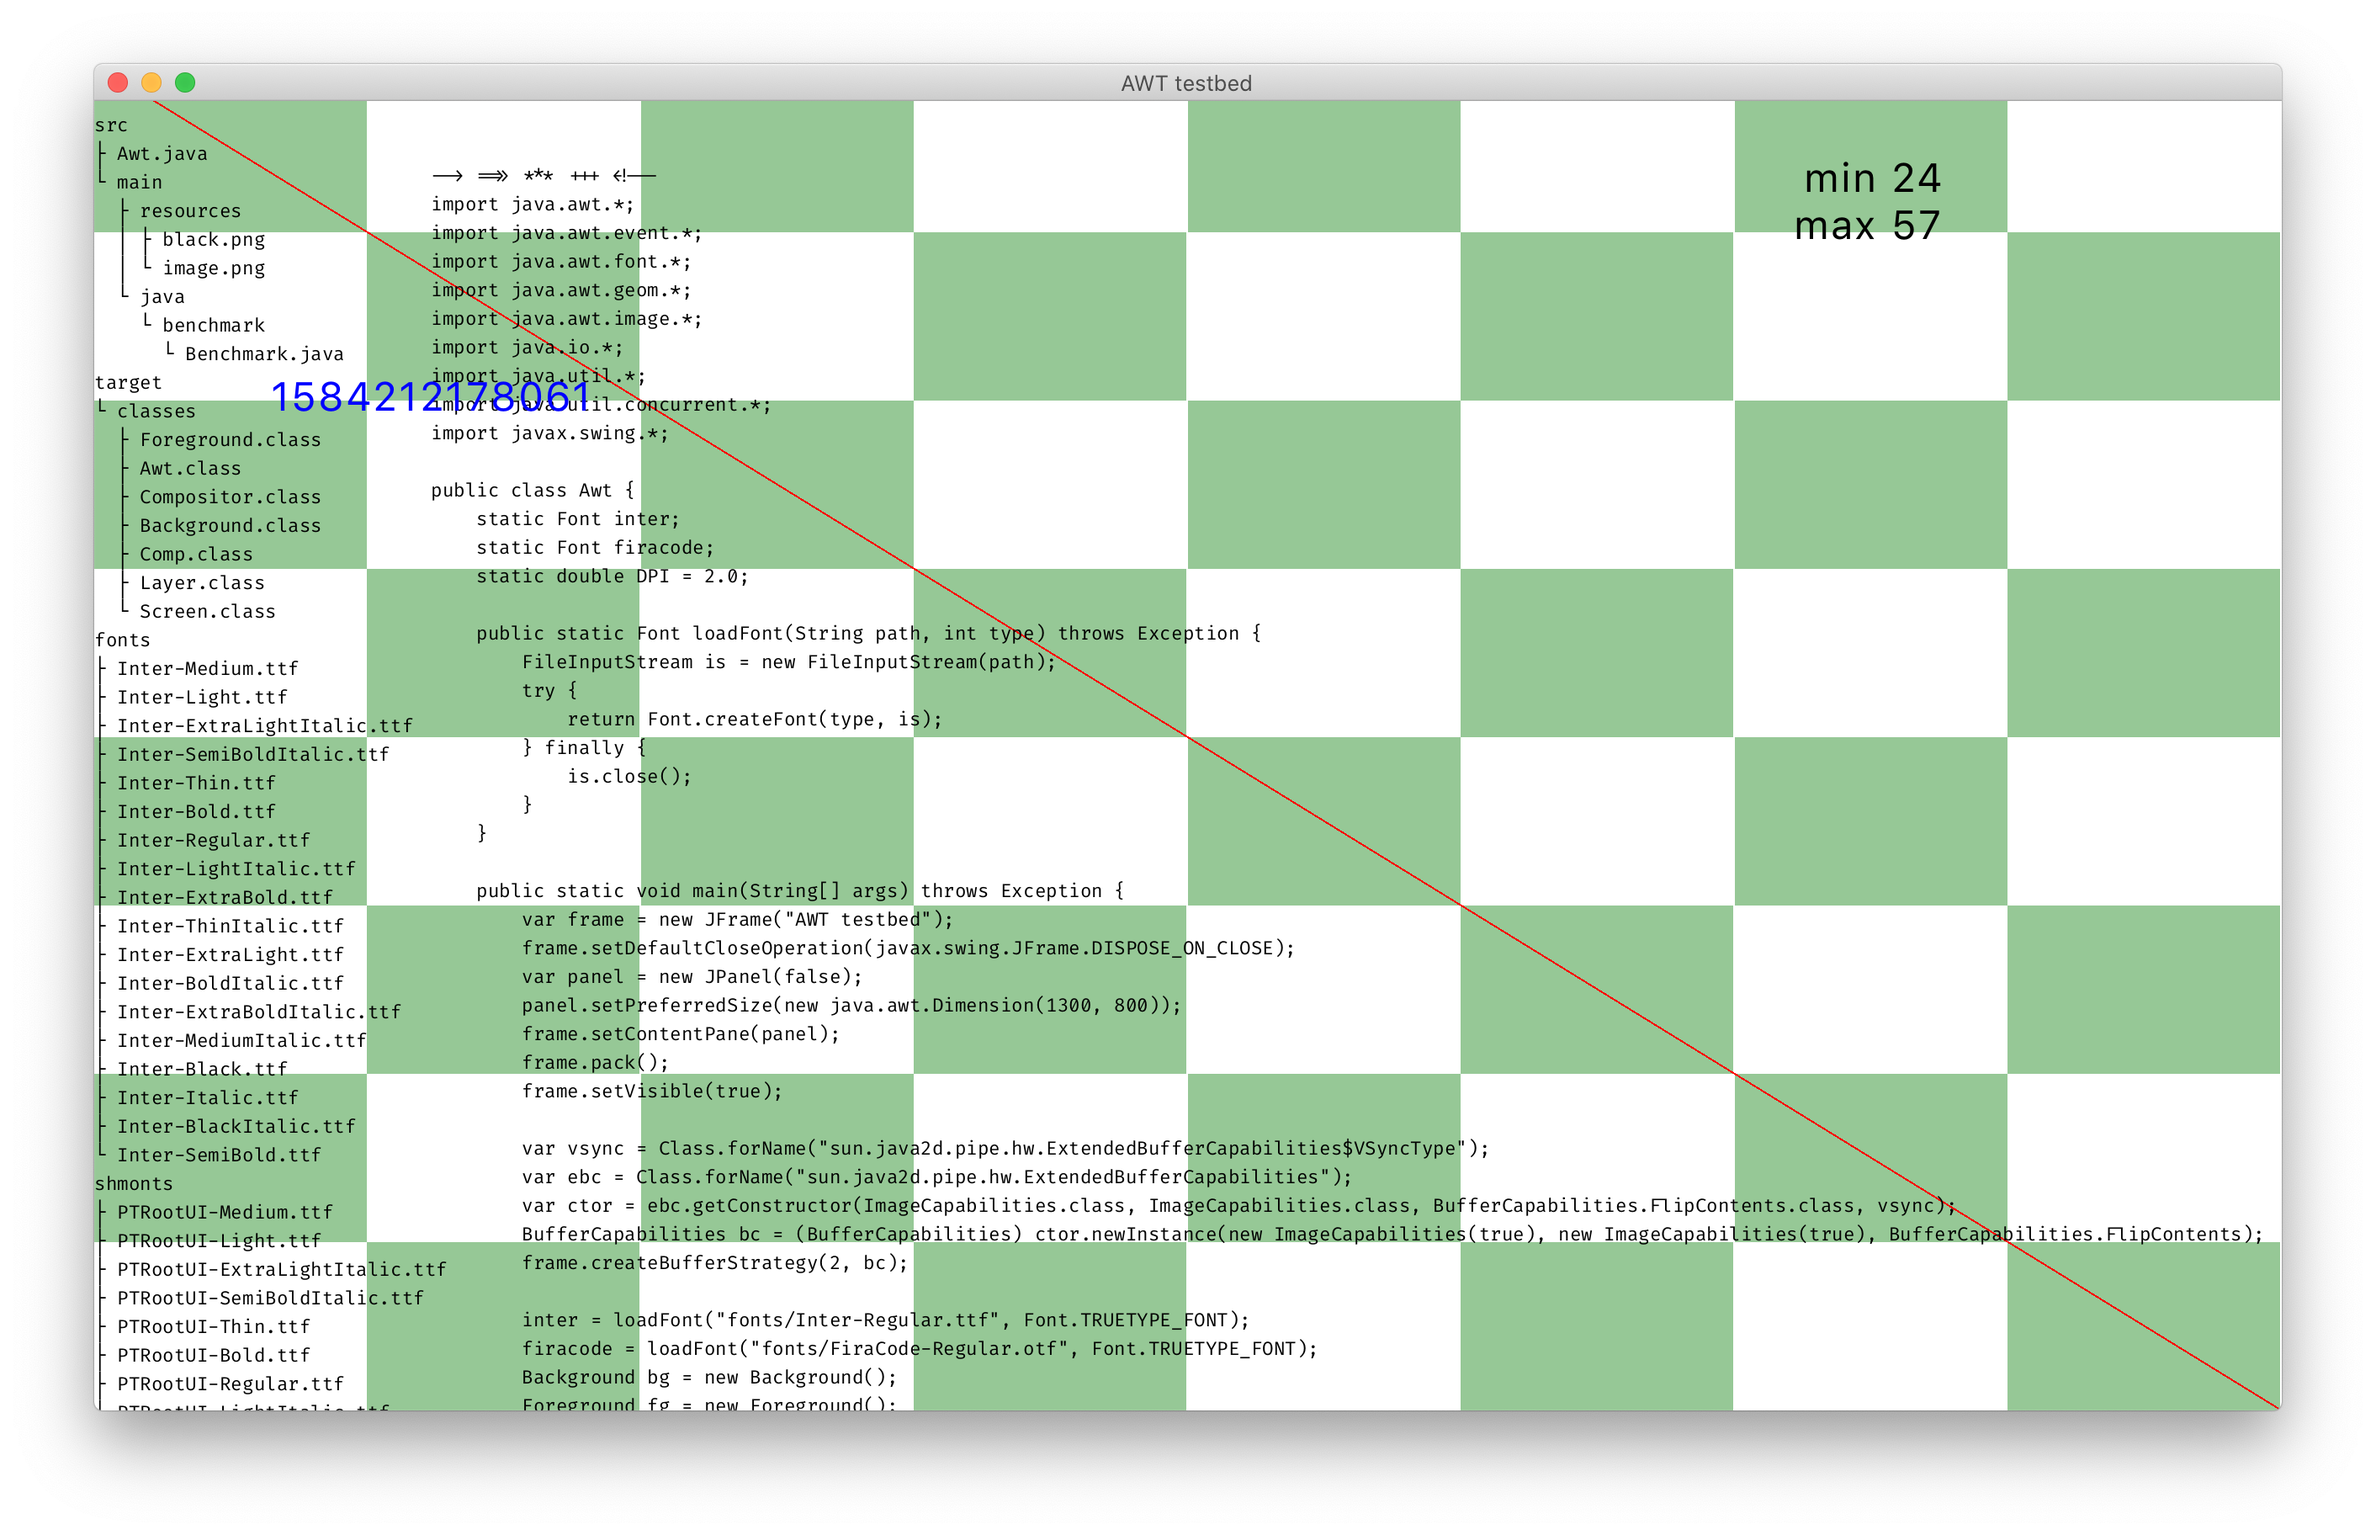
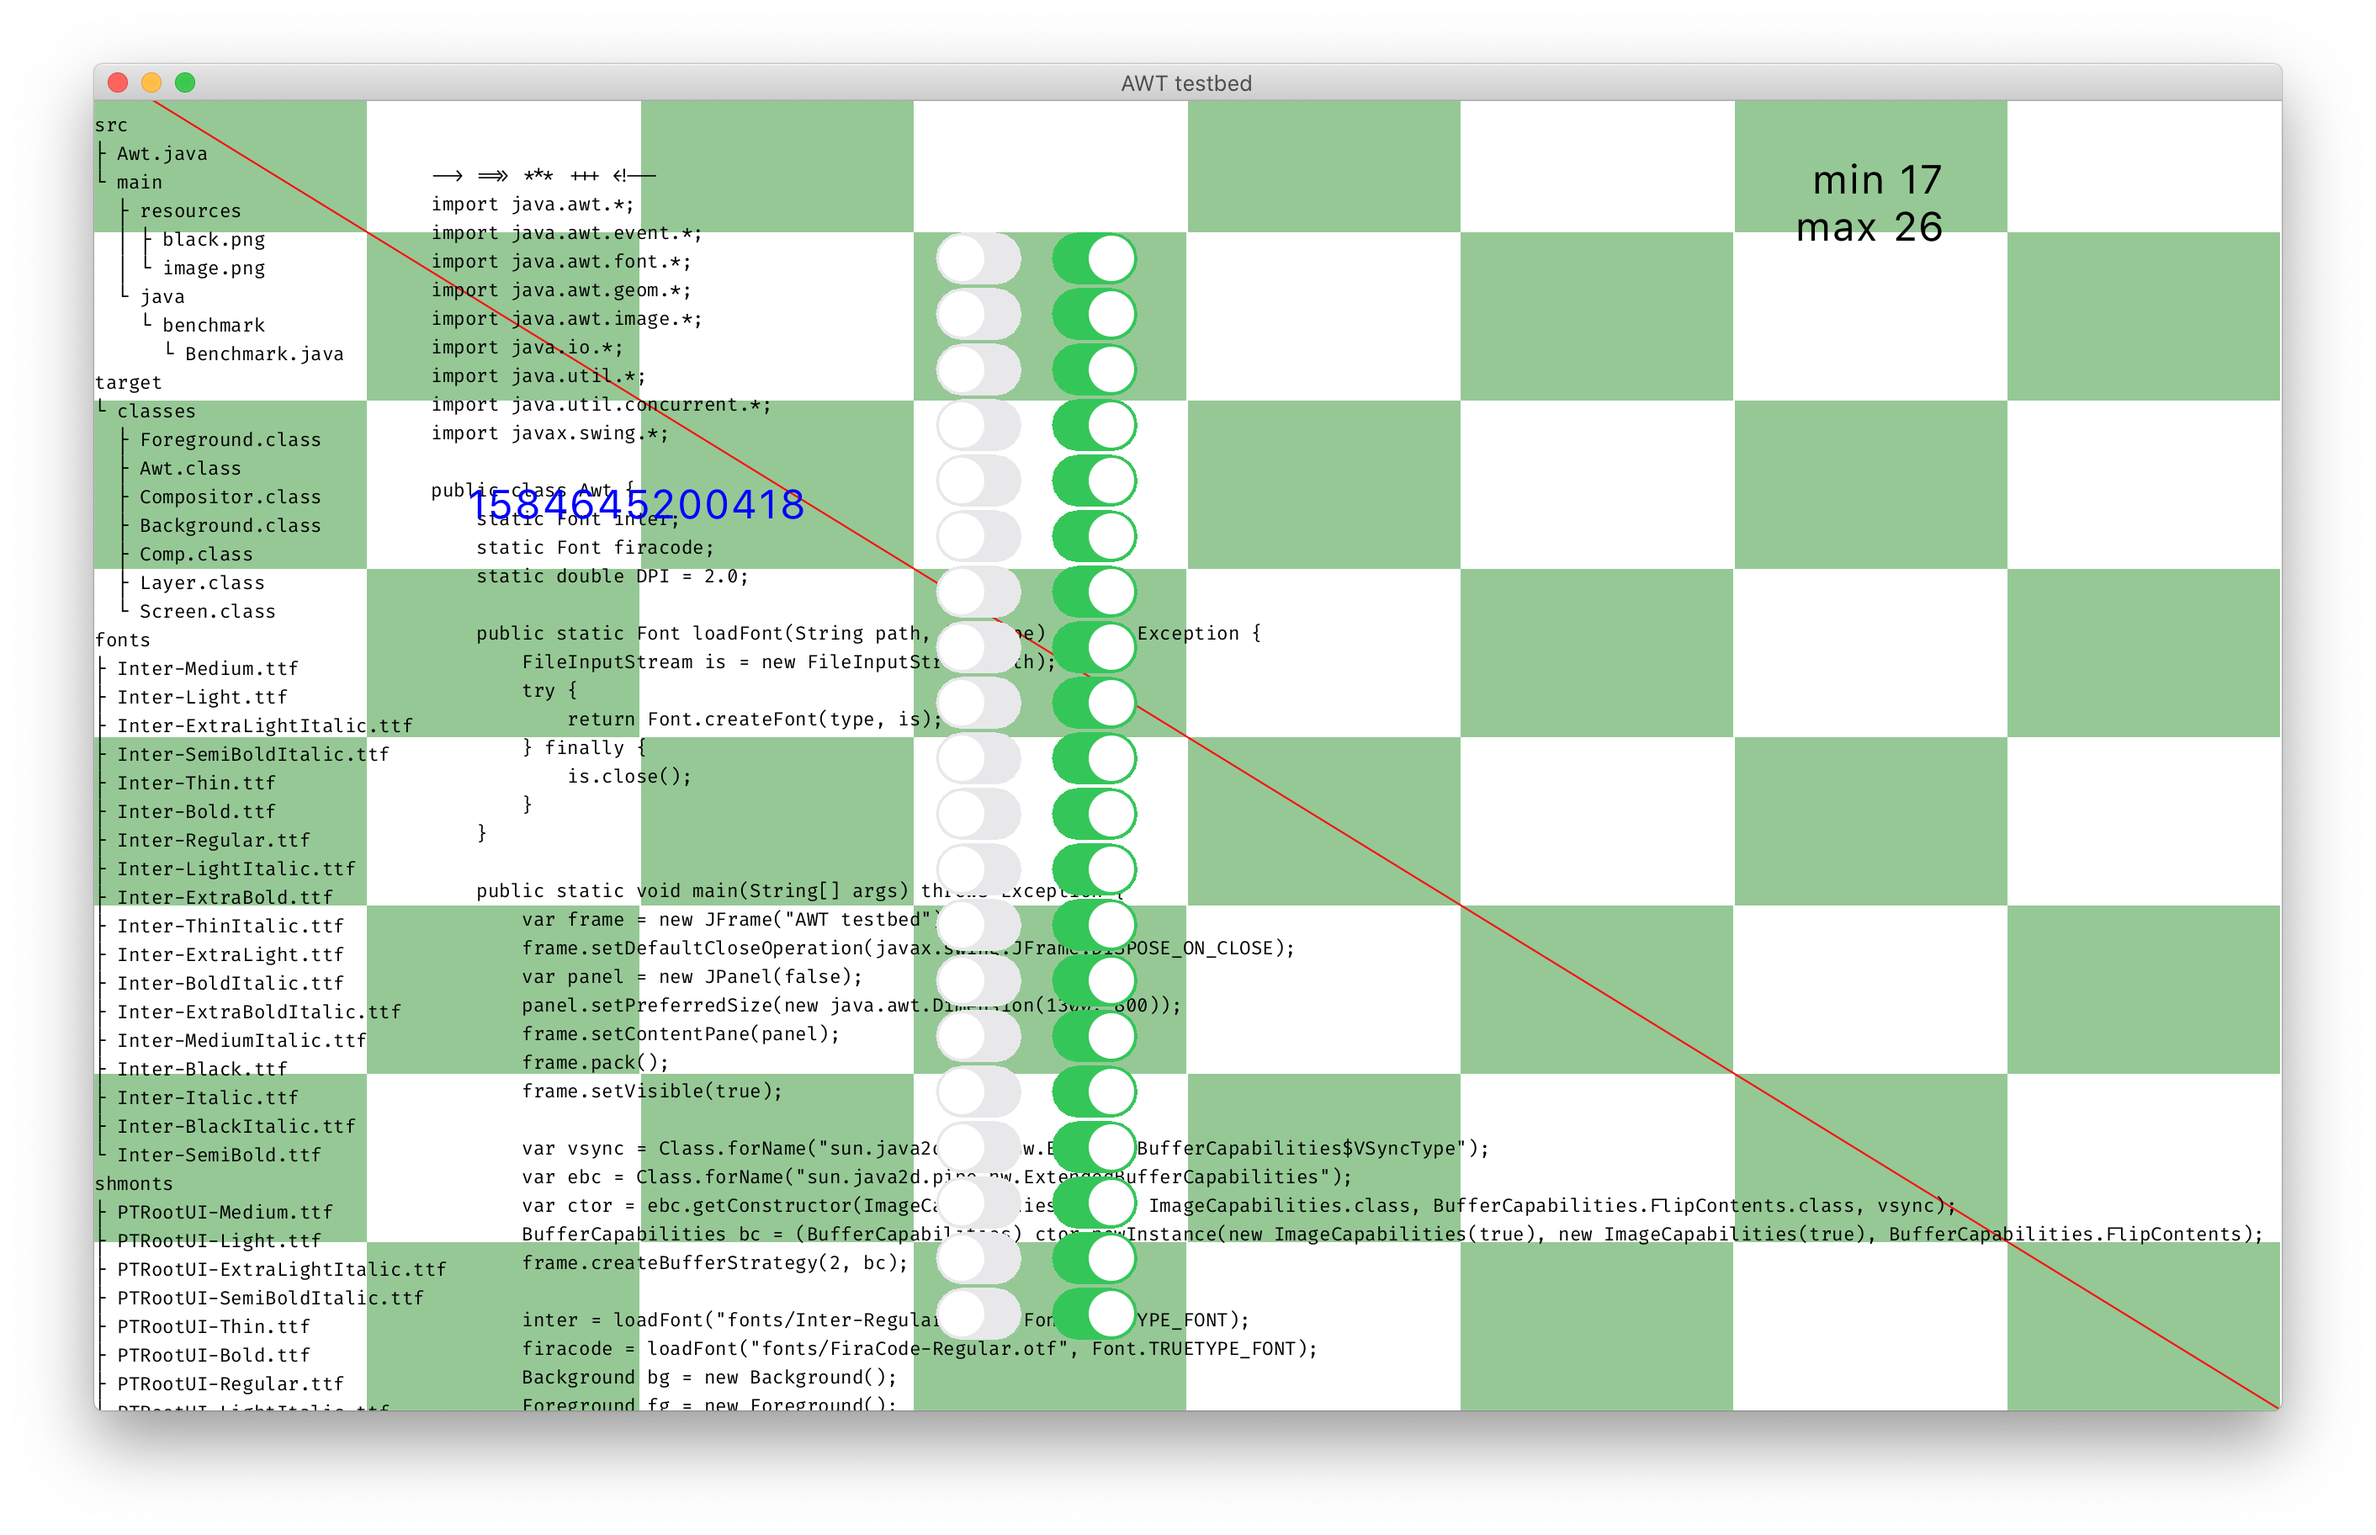
Clipping and rounded rects test

diff --git a/src/FX.java b/src/FX.java
@@ -65,7 +65,6 @@ public class FX extends Application {
     long[] times = new long[10];
     int idx = 0;
     long lastT = System.nanoTime();
-    long frameTime = 0;
 
     void paintFPS(GraphicsContext gc) {
         var t = System.nanoTime();
@@ -80,7 +79,6 @@ public class FX extends Application {
             gc.setFill(Color.BLACK);
             gc.fillText("FPS min " + 1_000_000_000 / max, 1000, 24);
             gc.fillText("FPS max " + 1_000_000_000 / max, 1000, 48);
-            gc.fillText("Frame time " + (frameTime / 1_000_000.0) + "ms", 1000, 72);
         }
     }
 
@@ -127,6 +125,57 @@ public class FX extends Application {
         offset = (offset + 1) % 60;
     }
 
+    void paintToggle(GraphicsContext gc, boolean on) {
+        gc.save();
+
+        gc.beginPath();
+        
+        // gc.moveTo(0, 15.5);
+        // gc.arcTo(0, 0, 15.5, 0, 15.5);
+        // gc.lineTo(35.5, 0);
+        // gc.arcTo(51, 0, 51, 15.5, 15.5);
+        // gc.arcTo(51, 31, 31.5, 31, 15.5);
+        // gc.lineTo(15.5, 31);
+        // gc.arcTo(0, 31, 0, 15.5, 15.5);
+
+        gc.moveTo(15.5, 31);
+        gc.arc(15.5, 15.5, 15.5, 15.5, 90, 180);
+        gc.lineTo(35.5, 31);
+        gc.arc(35.5, 15.5, 15.5, 15.5, 270, 180);
+        gc.lineTo(15.5, 0);
+
+        // gc.rect(0, 0, 51, 31);
+
+        gc.closePath();
+        gc.clip();
+
+        var bg = on ? new Color(53/256.0, 199/256.0, 89/256.0, 1) : new Color(233/256.0, 233/256.0, 235/256.0, 1);
+        gc.setFill(bg);
+        gc.fillRect(0, 0, 51, 31);
+        // gc.fillRoundRect(0, 0, 51, 31, 31, 31);
+
+        // gc.beginPath();
+        // gc.moveTo(15.5, 31);
+        // gc.arc(15.5, 15.5, 15.5, 15.5, 90, 180);
+        // gc.lineTo(35.5, 31);
+        // gc.arc(35.5, 15.5, 15.5, 15.5, 270, 180);
+        // gc.lineTo(15.5, 0);
+        // gc.closePath();
+        // gc.fill();
+
+        DropShadow dropShadow = new DropShadow();
+        dropShadow.setRadius(8.0);
+        dropShadow.setOffsetX(0.0);
+        dropShadow.setOffsetY(4.0);
+        dropShadow.setColor(Color.color(0, 0, 0, 0.1));
+        gc.setEffect(dropShadow);
+
+        gc.setFill(Color.WHITE);
+        gc.fillOval(on ? 22 : 2, 2, 27, 27);
+        gc.setEffect(null);
+        gc.restore();
+    }
+
     void repaint(GraphicsContext gc) {
         var t = System.nanoTime();
         gc.clearRect(0, 0, width, height);
@@ -135,8 +184,18 @@ public class FX extends Application {
         paintFPS(gc);
         paintFiles(gc);
         paintCode(gc);
+
+        gc.save();
+        gc.translate(500, 100);
+        for (int i = 0; i < 20; ++i) {
+            paintToggle(gc, false);
+            gc.translate(69, 0);
+            paintToggle(gc, true);
+            gc.translate(-69, 33);
+        }
+        gc.restore();
+
         paintColumn(gc);
-        frameTime = System.nanoTime() - t;
     }
 
     @Override

diff --git a/src/Awt.java b/src/Awt.java
@@ -55,7 +55,7 @@ public class Awt {
         Foreground fg = new Foreground();
         Screen sc = new Screen();
         FPS fps = new FPS();
-        Compositor compositor = new Compositor(bg, sc, fg, fps);
+        Compositor compositor = new Compositor(bg, sc, fg, new Toggles(), fps);
 
         while (true) {
             compositor.paint(frame);
@@ -145,9 +145,10 @@ class Compositor {
 
     public void paintDirect(Layer layer, Graphics2D g) {
         var t0 = System.nanoTime();
-        g.translate(layer.pos.x, layer.pos.y);
-        layer.paintImpl(g);
-        g.translate(-layer.pos.x, -layer.pos.y);
+        var g2 = (Graphics2D) g.create();
+        g2.translate(layer.pos.x, layer.pos.y);
+        layer.paintImpl(g2);
+        g2.dispose();
         var dt = (System.nanoTime() - t0) / 1_000_000.0;
         System.out.println("  ┌ " + layer.getClass().getName() + " took " + dt + " ms");
     }
@@ -162,6 +163,8 @@ class Compositor {
                 Graphics2D g = (Graphics2D) strategy.getDrawGraphics();
                 g.setBackground(Color.WHITE);
                 g.clearRect(0, 0, 1300, 800);
+                g.setRenderingHint(RenderingHints.KEY_ANTIALIASING, RenderingHints.VALUE_ANTIALIAS_ON);
+                g.setRenderingHint(RenderingHints.KEY_RENDERING, RenderingHints.VALUE_RENDER_QUALITY);
                 // var transform = new AffineTransform();
                 // transform.setToScale(1.0, 1.0);
                 // g.setTransform(transform);
@@ -275,6 +278,37 @@ class Background extends Layer {
     }
 }
 
+class Toggles extends Layer {
+    public Toggles() {
+        pos = new Point(500, 100);
+    }
+
+    public void paintImpl(Graphics2D g) {
+        var g2 = g.create();
+        for (int i = 0; i < 20; ++i) {
+            paintToggle(g, false);
+            g.translate(69, 0);
+            paintToggle(g, true);
+            g.translate(-69, 33);
+        }
+        g2.dispose();
+    }
+
+    public void paintToggle(Graphics2D g, boolean on) {
+        var g2 = (Graphics2D) g.create();
+        var bg = on ? new Color(53/256f, 199/256f, 89/256f) : new Color(233/256f, 233/256f, 235/256f);
+        g2.setColor(bg);
+        
+        g2.clip(new RoundRectangle2D.Double(0.0, 0.0, 51.0, 31.0, 31.0, 31.0));
+        g2.fillRect(0, 0, 51, 31);
+
+        // g2.fillRoundRect(0, 0, 51, 31, 31, 31);
+        
+        g2.setColor(Color.WHITE);
+        g2.fillOval(on ? 22 : 2, 2, 27, 27);
+        g2.dispose();
+    }
+}
 
 class Screen extends Layer {
     FontRenderContext frc = new FontRenderContext(new AffineTransform(), true, true);

diff --git a/README.md b/README.md
@@ -11,9 +11,13 @@ In both test I didn’t use AWT/Swing/JavaFX components/scene, but created a ful
 ![](screenshots/awt.png)
 
 - 20-30 fps for 2600x1600 window
+- Drawing 40 rounded rects ~20 fps
+- Clipping 40 rounded rects ~15 fps
 - No VSync
 - Double buffering seems to be really expensive
-- No way to control OpenType features (incl. no way to DISABLE e.g. `calt`)
+- Open type is supported, but no way to control features (incl. no way to DISABLE e.g. `calt`)
+- Clipping boundary is not antialiased
+- No effects, e.g. shadow
 
 ## JavaFX 14
 
@@ -29,6 +33,8 @@ In both test I didn’t use AWT/Swing/JavaFX components/scene, but created a ful
 - No OpenType font features (no ligatures)
 - No way to reuse text layout (+measures) when later rendering same text to canvas
 - Drawing 32x DropShadow effects drops fps to ~30 fps
+- Single rounded rect clip drops fps to ~30
+- 40 rounded rect clips drop fps to ~10
 - LCD font smoothing seems to be very bad
 
 ## Test machine
